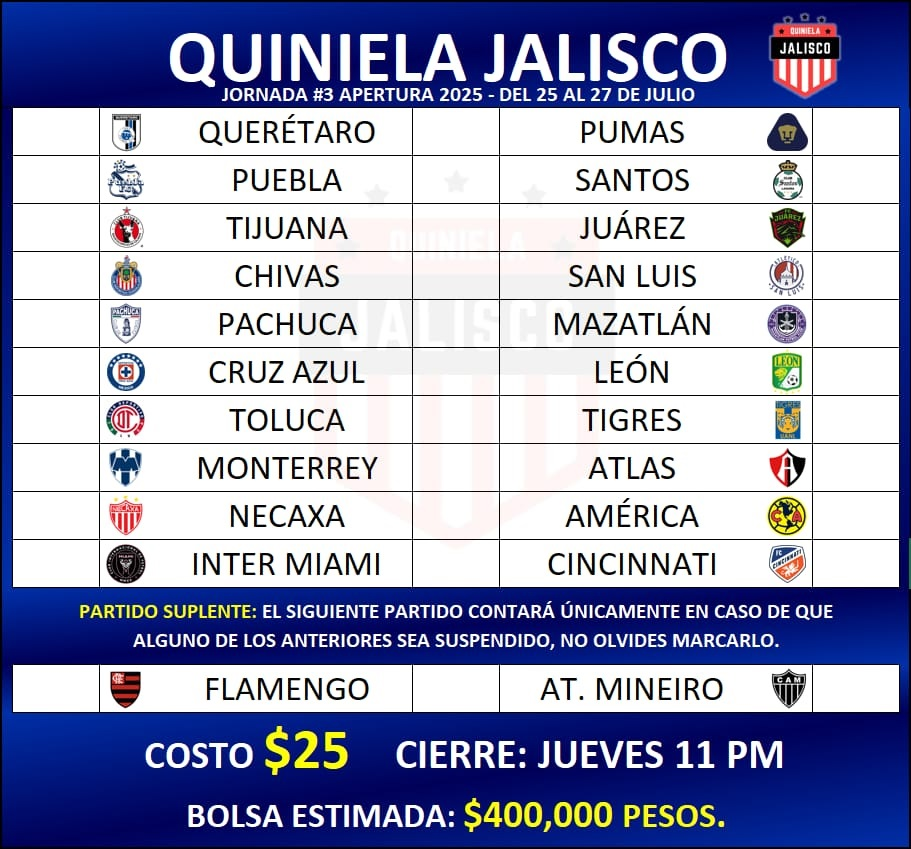
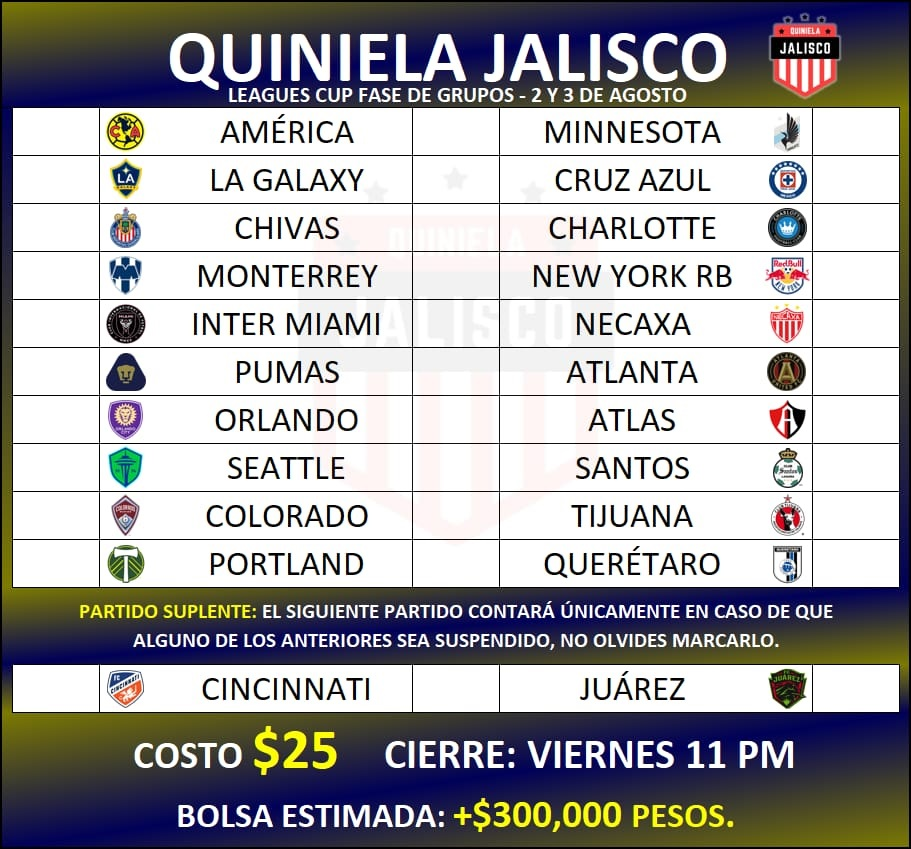
Leagues Cup

diff --git a/11/styles11.css b/11/styles11.css
@@ -95,8 +95,8 @@ body{
     margin-top: 8.5%;
     border-top: solid 1px black;
     border-radius: 0 0 14px 14px;
-    background: -webkit-linear-gradient(0.49turn, rgb(0,20,120) -7%, rgb(0 4 86) 80%);
-    background: linear-gradient(0.49turn, rgb(0,20,120) -7%, rgb(0 4 86) 80%);
+    background: -webkit-linear-gradient(0.49turn, rgb(52,52,52) -7%, rgb(0 4 86) 80%);
+    background: linear-gradient(0.49turn, rgb(52,52,52) -7%, rgb(0 4 86) 80%);
 }
 
 .text-lg{
@@ -293,7 +293,7 @@ h6{
 }
 
 #cantidad:before{
-    content:'$400,000 pesos';
+    content:'$300,000 pesos';
     color: yellow;
     white-space:pre;
 }
